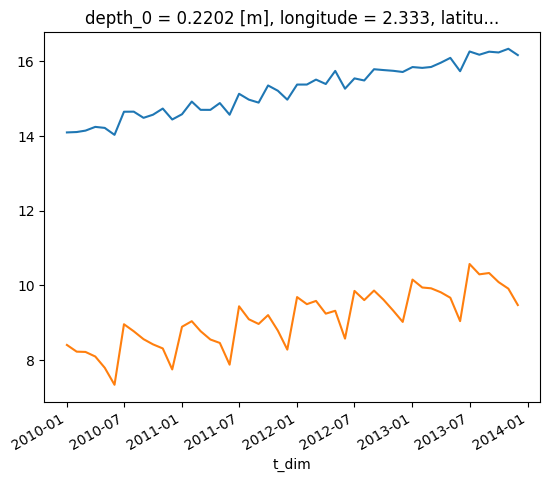
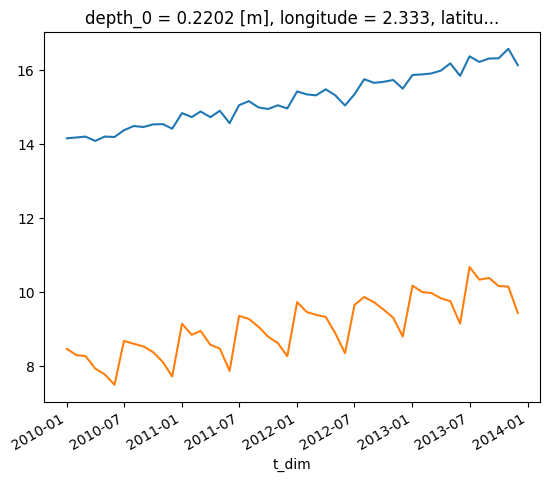
Updated General notebook pages from coast repo.

diff --git a/content/en/docs/Examples/Notebooks/General/seasonal_decomp_example.md b/content/en/docs/Examples/Notebooks/General/seasonal_decomp_example.md
@@ -86,7 +86,7 @@ temperature[0,0,:,:].plot()
 
 
 
-    <matplotlib.collections.QuadMesh at 0x7f87ec9b7af0>
+    <matplotlib.collections.QuadMesh at 0x7fa07605d8b0>
 
 
 
@@ -107,7 +107,7 @@ temperature[:,0,200,200].plot()
 
 
 
-    [<matplotlib.lines.Line2D at 0x7f87ec7fa6d0>]
+    [<matplotlib.lines.Line2D at 0x7fa074ea1460>]
 
 
 
@@ -513,7 +513,7 @@ Dimensions without coordinates: z_dim, y_dim, x_dim
 Data variables:
     trend      (t_dim, z_dim, y_dim, x_dim) float64 nan nan nan ... nan nan nan
     seasonal   (t_dim, z_dim, y_dim, x_dim) float64 nan nan nan ... nan nan nan
-    residual   (t_dim, z_dim, y_dim, x_dim) float64 nan nan nan ... nan nan nan</pre><div class='xr-wrap' style='display:none'><div class='xr-header'><div class='xr-obj-type'>xarray.Dataset</div></div><ul class='xr-sections'><li class='xr-section-item'><input id='section-d42141ce-48af-4893-b364-5f6567613936' class='xr-section-summary-in' type='checkbox' disabled ><label for='section-d42141ce-48af-4893-b364-5f6567613936' class='xr-section-summary'  title='Expand/collapse section'>Dimensions:</label><div class='xr-section-inline-details'><ul class='xr-dim-list'><li><span class='xr-has-index'>t_dim</span>: 48</li><li><span>z_dim</span>: 2</li><li><span>y_dim</span>: 375</li><li><span>x_dim</span>: 297</li></ul></div><div class='xr-section-details'></div></li><li class='xr-section-item'><input id='section-e6585d1b-7724-4d4b-a495-5657a4b716bb' class='xr-section-summary-in' type='checkbox'  checked><label for='section-e6585d1b-7724-4d4b-a495-5657a4b716bb' class='xr-section-summary' >Coordinates: <span>(4)</span></label><div class='xr-section-inline-details'></div><div class='xr-section-details'><ul class='xr-var-list'><li class='xr-var-item'><div class='xr-var-name'><span class='xr-has-index'>t_dim</span></div><div class='xr-var-dims'>(t_dim)</div><div class='xr-var-dtype'>datetime64[ns]</div><div class='xr-var-preview xr-preview'>2010-01-01 ... 2013-12-01</div><input id='attrs-b4dcd564-58a8-42f1-81d1-2969cd179d9c' class='xr-var-attrs-in' type='checkbox' disabled><label for='attrs-b4dcd564-58a8-42f1-81d1-2969cd179d9c' title='Show/Hide attributes'><svg class='icon xr-icon-file-text2'><use xlink:href='#icon-file-text2'></use></svg></label><input id='data-311a7585-7bc5-4884-a68f-ded313acbca0' class='xr-var-data-in' type='checkbox'><label for='data-311a7585-7bc5-4884-a68f-ded313acbca0' title='Show/Hide data repr'><svg class='icon xr-icon-database'><use xlink:href='#icon-database'></use></svg></label><div class='xr-var-attrs'><dl class='xr-attrs'></dl></div><div class='xr-var-data'><pre>array([&#x27;2010-01-01T00:00:00.000000000&#x27;, &#x27;2010-02-01T00:00:00.000000000&#x27;,
+    residual   (t_dim, z_dim, y_dim, x_dim) float64 nan nan nan ... nan nan nan</pre><div class='xr-wrap' style='display:none'><div class='xr-header'><div class='xr-obj-type'>xarray.Dataset</div></div><ul class='xr-sections'><li class='xr-section-item'><input id='section-a70e4a4f-01c0-4dd6-a6f8-419dc722c936' class='xr-section-summary-in' type='checkbox' disabled ><label for='section-a70e4a4f-01c0-4dd6-a6f8-419dc722c936' class='xr-section-summary'  title='Expand/collapse section'>Dimensions:</label><div class='xr-section-inline-details'><ul class='xr-dim-list'><li><span class='xr-has-index'>t_dim</span>: 48</li><li><span>z_dim</span>: 2</li><li><span>y_dim</span>: 375</li><li><span>x_dim</span>: 297</li></ul></div><div class='xr-section-details'></div></li><li class='xr-section-item'><input id='section-204ecef0-bb21-400d-88c0-f1d8fb5bde33' class='xr-section-summary-in' type='checkbox'  checked><label for='section-204ecef0-bb21-400d-88c0-f1d8fb5bde33' class='xr-section-summary' >Coordinates: <span>(4)</span></label><div class='xr-section-inline-details'></div><div class='xr-section-details'><ul class='xr-var-list'><li class='xr-var-item'><div class='xr-var-name'><span class='xr-has-index'>t_dim</span></div><div class='xr-var-dims'>(t_dim)</div><div class='xr-var-dtype'>datetime64[ns]</div><div class='xr-var-preview xr-preview'>2010-01-01 ... 2013-12-01</div><input id='attrs-fc3eb1d7-96aa-4e0f-8123-0a0c46e6be70' class='xr-var-attrs-in' type='checkbox' disabled><label for='attrs-fc3eb1d7-96aa-4e0f-8123-0a0c46e6be70' title='Show/Hide attributes'><svg class='icon xr-icon-file-text2'><use xlink:href='#icon-file-text2'></use></svg></label><input id='data-0b8a5887-f077-455e-b394-0f9db34bef87' class='xr-var-data-in' type='checkbox'><label for='data-0b8a5887-f077-455e-b394-0f9db34bef87' title='Show/Hide data repr'><svg class='icon xr-icon-database'><use xlink:href='#icon-database'></use></svg></label><div class='xr-var-attrs'><dl class='xr-attrs'></dl></div><div class='xr-var-data'><pre>array([&#x27;2010-01-01T00:00:00.000000000&#x27;, &#x27;2010-02-01T00:00:00.000000000&#x27;,
        &#x27;2010-03-01T00:00:00.000000000&#x27;, &#x27;2010-04-01T00:00:00.000000000&#x27;,
        &#x27;2010-05-01T00:00:00.000000000&#x27;, &#x27;2010-06-01T00:00:00.000000000&#x27;,
        &#x27;2010-07-01T00:00:00.000000000&#x27;, &#x27;2010-08-01T00:00:00.000000000&#x27;,
@@ -537,7 +537,7 @@ Data variables:
        &#x27;2013-07-01T00:00:00.000000000&#x27;, &#x27;2013-08-01T00:00:00.000000000&#x27;,
        &#x27;2013-09-01T00:00:00.000000000&#x27;, &#x27;2013-10-01T00:00:00.000000000&#x27;,
        &#x27;2013-11-01T00:00:00.000000000&#x27;, &#x27;2013-12-01T00:00:00.000000000&#x27;],
-      dtype=&#x27;datetime64[ns]&#x27;)</pre></div></li><li class='xr-var-item'><div class='xr-var-name'><span>depth_0</span></div><div class='xr-var-dims'>(z_dim, y_dim, x_dim)</div><div class='xr-var-dtype'>float32</div><div class='xr-var-preview xr-preview'>0.5 0.5 0.5 0.5 ... 1.5 1.5 1.5 1.5</div><input id='attrs-b49a0ec0-ab7a-4933-a63e-c009f26ebf74' class='xr-var-attrs-in' type='checkbox' ><label for='attrs-b49a0ec0-ab7a-4933-a63e-c009f26ebf74' title='Show/Hide attributes'><svg class='icon xr-icon-file-text2'><use xlink:href='#icon-file-text2'></use></svg></label><input id='data-532673e2-7186-4427-8175-4546692c87ad' class='xr-var-data-in' type='checkbox'><label for='data-532673e2-7186-4427-8175-4546692c87ad' title='Show/Hide data repr'><svg class='icon xr-icon-database'><use xlink:href='#icon-database'></use></svg></label><div class='xr-var-attrs'><dl class='xr-attrs'><dt><span>units :</span></dt><dd>m</dd><dt><span>standard_name :</span></dt><dd>Depth at time zero on the t-grid</dd></dl></div><div class='xr-var-data'><pre>array([[[0.5       , 0.5       , 0.5       , ..., 0.5       ,
+      dtype=&#x27;datetime64[ns]&#x27;)</pre></div></li><li class='xr-var-item'><div class='xr-var-name'><span>depth_0</span></div><div class='xr-var-dims'>(z_dim, y_dim, x_dim)</div><div class='xr-var-dtype'>float32</div><div class='xr-var-preview xr-preview'>0.5 0.5 0.5 0.5 ... 1.5 1.5 1.5 1.5</div><input id='attrs-839a5afe-e3f4-4ae5-85b8-b7559c0cab70' class='xr-var-attrs-in' type='checkbox' ><label for='attrs-839a5afe-e3f4-4ae5-85b8-b7559c0cab70' title='Show/Hide attributes'><svg class='icon xr-icon-file-text2'><use xlink:href='#icon-file-text2'></use></svg></label><input id='data-083b9e25-fdff-45b2-bef9-7839a260f467' class='xr-var-data-in' type='checkbox'><label for='data-083b9e25-fdff-45b2-bef9-7839a260f467' title='Show/Hide data repr'><svg class='icon xr-icon-database'><use xlink:href='#icon-database'></use></svg></label><div class='xr-var-attrs'><dl class='xr-attrs'><dt><span>units :</span></dt><dd>m</dd><dt><span>standard_name :</span></dt><dd>Depth at time zero on the t-grid</dd></dl></div><div class='xr-var-data'><pre>array([[[0.5       , 0.5       , 0.5       , ..., 0.5       ,
          0.5       , 0.5       ],
         [0.5       , 0.4975586 , 0.4975586 , ..., 0.10009766,
          0.10009766, 0.5       ],
@@ -563,7 +563,7 @@ Data variables:
         [1.5       , 0.30029297, 0.30029297, ..., 0.30029297,
          0.30029297, 1.5       ],
         [1.5       , 1.5       , 1.5       , ..., 1.5       ,
-         1.5       , 1.5       ]]], dtype=float32)</pre></div></li><li class='xr-var-item'><div class='xr-var-name'><span>longitude</span></div><div class='xr-var-dims'>(y_dim, x_dim)</div><div class='xr-var-dtype'>float32</div><div class='xr-var-preview xr-preview'>-19.89 -19.78 -19.67 ... 12.89 13.0</div><input id='attrs-29179765-9406-4f76-9778-fa1de02a451e' class='xr-var-attrs-in' type='checkbox' disabled><label for='attrs-29179765-9406-4f76-9778-fa1de02a451e' title='Show/Hide attributes'><svg class='icon xr-icon-file-text2'><use xlink:href='#icon-file-text2'></use></svg></label><input id='data-bccb97a6-37e6-4661-9cdb-a46785899e40' class='xr-var-data-in' type='checkbox'><label for='data-bccb97a6-37e6-4661-9cdb-a46785899e40' title='Show/Hide data repr'><svg class='icon xr-icon-database'><use xlink:href='#icon-database'></use></svg></label><div class='xr-var-attrs'><dl class='xr-attrs'></dl></div><div class='xr-var-data'><pre>array([[-19.888672, -19.777344, -19.666992, ...,  12.777344,  12.888672,
+         1.5       , 1.5       ]]], dtype=float32)</pre></div></li><li class='xr-var-item'><div class='xr-var-name'><span>longitude</span></div><div class='xr-var-dims'>(y_dim, x_dim)</div><div class='xr-var-dtype'>float32</div><div class='xr-var-preview xr-preview'>-19.89 -19.78 -19.67 ... 12.89 13.0</div><input id='attrs-e6753199-41dc-4d72-8055-4108ed272587' class='xr-var-attrs-in' type='checkbox' disabled><label for='attrs-e6753199-41dc-4d72-8055-4108ed272587' title='Show/Hide attributes'><svg class='icon xr-icon-file-text2'><use xlink:href='#icon-file-text2'></use></svg></label><input id='data-8450f9f5-871f-4365-bd71-72a522c6a466' class='xr-var-data-in' type='checkbox'><label for='data-8450f9f5-871f-4365-bd71-72a522c6a466' title='Show/Hide data repr'><svg class='icon xr-icon-database'><use xlink:href='#icon-database'></use></svg></label><div class='xr-var-attrs'><dl class='xr-attrs'></dl></div><div class='xr-var-data'><pre>array([[-19.888672, -19.777344, -19.666992, ...,  12.777344,  12.888672,
          13.      ],
        [-19.888672, -19.777344, -19.666992, ...,  12.777344,  12.888672,
          13.      ],
@@ -575,7 +575,7 @@ Data variables:
        [-19.888672, -19.777344, -19.666992, ...,  12.777344,  12.888672,
          13.      ],
        [-19.888672, -19.777344, -19.666992, ...,  12.777344,  12.888672,
-         13.      ]], dtype=float32)</pre></div></li><li class='xr-var-item'><div class='xr-var-name'><span>latitude</span></div><div class='xr-var-dims'>(y_dim, x_dim)</div><div class='xr-var-dtype'>float32</div><div class='xr-var-preview xr-preview'>40.07 40.07 40.07 ... 65.0 65.0</div><input id='attrs-34e0a926-b6b6-413b-809e-6a13ca8f984d' class='xr-var-attrs-in' type='checkbox' disabled><label for='attrs-34e0a926-b6b6-413b-809e-6a13ca8f984d' title='Show/Hide attributes'><svg class='icon xr-icon-file-text2'><use xlink:href='#icon-file-text2'></use></svg></label><input id='data-d67e56d9-1117-456e-a018-335ab70f7880' class='xr-var-data-in' type='checkbox'><label for='data-d67e56d9-1117-456e-a018-335ab70f7880' title='Show/Hide data repr'><svg class='icon xr-icon-database'><use xlink:href='#icon-database'></use></svg></label><div class='xr-var-attrs'><dl class='xr-attrs'></dl></div><div class='xr-var-data'><pre>array([[40.066406, 40.066406, 40.066406, ..., 40.066406, 40.066406,
+         13.      ]], dtype=float32)</pre></div></li><li class='xr-var-item'><div class='xr-var-name'><span>latitude</span></div><div class='xr-var-dims'>(y_dim, x_dim)</div><div class='xr-var-dtype'>float32</div><div class='xr-var-preview xr-preview'>40.07 40.07 40.07 ... 65.0 65.0</div><input id='attrs-18ff1bc8-58e7-4fe8-bf3b-063d073bf81f' class='xr-var-attrs-in' type='checkbox' disabled><label for='attrs-18ff1bc8-58e7-4fe8-bf3b-063d073bf81f' title='Show/Hide attributes'><svg class='icon xr-icon-file-text2'><use xlink:href='#icon-file-text2'></use></svg></label><input id='data-6125a465-814e-4929-b6e6-31e62c77645d' class='xr-var-data-in' type='checkbox'><label for='data-6125a465-814e-4929-b6e6-31e62c77645d' title='Show/Hide data repr'><svg class='icon xr-icon-database'><use xlink:href='#icon-database'></use></svg></label><div class='xr-var-attrs'><dl class='xr-attrs'></dl></div><div class='xr-var-data'><pre>array([[40.066406, 40.066406, 40.066406, ..., 40.066406, 40.066406,
         40.066406],
        [40.13379 , 40.13379 , 40.13379 , ..., 40.13379 , 40.13379 ,
         40.13379 ],
@@ -587,11 +587,11 @@ Data variables:
        [64.93457 , 64.93457 , 64.93457 , ..., 64.93457 , 64.93457 ,
         64.93457 ],
        [65.00098 , 65.00098 , 65.00098 , ..., 65.00098 , 65.00098 ,
-        65.00098 ]], dtype=float32)</pre></div></li></ul></div></li><li class='xr-section-item'><input id='section-464e8245-1a8b-4424-8d2a-ac0cfa53e012' class='xr-section-summary-in' type='checkbox'  checked><label for='section-464e8245-1a8b-4424-8d2a-ac0cfa53e012' class='xr-section-summary' >Data variables: <span>(3)</span></label><div class='xr-section-inline-details'></div><div class='xr-section-details'><ul class='xr-var-list'><li class='xr-var-item'><div class='xr-var-name'><span>trend</span></div><div class='xr-var-dims'>(t_dim, z_dim, y_dim, x_dim)</div><div class='xr-var-dtype'>float64</div><div class='xr-var-preview xr-preview'>nan nan nan nan ... nan nan nan nan</div><input id='attrs-c6f8db08-c1ec-454e-9e55-5a8c2129a865' class='xr-var-attrs-in' type='checkbox' disabled><label for='attrs-c6f8db08-c1ec-454e-9e55-5a8c2129a865' title='Show/Hide attributes'><svg class='icon xr-icon-file-text2'><use xlink:href='#icon-file-text2'></use></svg></label><input id='data-5eb594c5-5c9a-4f16-b055-70958bb9169e' class='xr-var-data-in' type='checkbox'><label for='data-5eb594c5-5c9a-4f16-b055-70958bb9169e' title='Show/Hide data repr'><svg class='icon xr-icon-database'><use xlink:href='#icon-database'></use></svg></label><div class='xr-var-attrs'><dl class='xr-attrs'></dl></div><div class='xr-var-data'><pre>array([[[[        nan,         nan,         nan, ...,         nan,
+        65.00098 ]], dtype=float32)</pre></div></li></ul></div></li><li class='xr-section-item'><input id='section-226820ff-9586-42e3-85a1-7f8f7a257a4b' class='xr-section-summary-in' type='checkbox'  checked><label for='section-226820ff-9586-42e3-85a1-7f8f7a257a4b' class='xr-section-summary' >Data variables: <span>(3)</span></label><div class='xr-section-inline-details'></div><div class='xr-section-details'><ul class='xr-var-list'><li class='xr-var-item'><div class='xr-var-name'><span>trend</span></div><div class='xr-var-dims'>(t_dim, z_dim, y_dim, x_dim)</div><div class='xr-var-dtype'>float64</div><div class='xr-var-preview xr-preview'>nan nan nan nan ... nan nan nan nan</div><input id='attrs-57bca8ef-20c3-477f-870d-d5888aa49de9' class='xr-var-attrs-in' type='checkbox' disabled><label for='attrs-57bca8ef-20c3-477f-870d-d5888aa49de9' title='Show/Hide attributes'><svg class='icon xr-icon-file-text2'><use xlink:href='#icon-file-text2'></use></svg></label><input id='data-4059c943-182c-449f-bc89-f9df9249d839' class='xr-var-data-in' type='checkbox'><label for='data-4059c943-182c-449f-bc89-f9df9249d839' title='Show/Hide data repr'><svg class='icon xr-icon-database'><use xlink:href='#icon-database'></use></svg></label><div class='xr-var-attrs'><dl class='xr-attrs'></dl></div><div class='xr-var-data'><pre>array([[[[        nan,         nan,         nan, ...,         nan,
                   nan,         nan],
-         [        nan, 15.26052062, 15.25726541, ...,         nan,
+         [        nan, 15.29981311, 15.2965579 , ...,         nan,
                   nan,         nan],
-         [        nan, 15.24945291, 15.4172589 , ...,         nan,
+         [        nan, 15.2887454 , 15.45655139, ...,         nan,
                   nan,         nan],
          ...,
          [        nan,         nan,         nan, ...,         nan,
@@ -603,9 +603,9 @@ Data variables:
 
         [[        nan,         nan,         nan, ...,         nan,
                   nan,         nan],
-         [        nan, 15.25954405, 15.25645161, ...,         nan,
+         [        nan, 15.29883655, 15.2957441 , ...,         nan,
                   nan,         nan],
-         [        nan, 15.24831359, 15.42116515, ...,         nan,
+         [        nan, 15.28760608, 15.46045764, ...,         nan,
                   nan,         nan],
 ...
          [        nan,         nan,         nan, ...,         nan,
@@ -617,9 +617,9 @@ Data variables:
 
         [[        nan,         nan,         nan, ...,         nan,
                   nan,         nan],
-         [        nan, 17.65310919, 17.65001674, ...,         nan,
+         [        nan, 17.785083  , 17.78199055, ...,         nan,
                   nan,         nan],
-         [        nan, 17.64187872, 17.81473028, ...,         nan,
+         [        nan, 17.77385253, 17.94670409, ...,         nan,
                   nan,         nan],
          ...,
          [        nan,         nan,         nan, ...,         nan,
@@ -627,11 +627,11 @@ Data variables:
          [        nan,         nan,         nan, ...,         nan,
                   nan,         nan],
          [        nan,         nan,         nan, ...,         nan,
-                  nan,         nan]]]])</pre></div></li><li class='xr-var-item'><div class='xr-var-name'><span>seasonal</span></div><div class='xr-var-dims'>(t_dim, z_dim, y_dim, x_dim)</div><div class='xr-var-dtype'>float64</div><div class='xr-var-preview xr-preview'>nan nan nan nan ... nan nan nan nan</div><input id='attrs-73561aa1-b332-4009-b5d2-3774c6647dda' class='xr-var-attrs-in' type='checkbox' disabled><label for='attrs-73561aa1-b332-4009-b5d2-3774c6647dda' title='Show/Hide attributes'><svg class='icon xr-icon-file-text2'><use xlink:href='#icon-file-text2'></use></svg></label><input id='data-e00157c6-d26b-4a42-bb48-baae50133bb4' class='xr-var-data-in' type='checkbox'><label for='data-e00157c6-d26b-4a42-bb48-baae50133bb4' title='Show/Hide data repr'><svg class='icon xr-icon-database'><use xlink:href='#icon-database'></use></svg></label><div class='xr-var-attrs'><dl class='xr-attrs'></dl></div><div class='xr-var-data'><pre>array([[[[        nan,         nan,         nan, ...,         nan,
+                  nan,         nan]]]])</pre></div></li><li class='xr-var-item'><div class='xr-var-name'><span>seasonal</span></div><div class='xr-var-dims'>(t_dim, z_dim, y_dim, x_dim)</div><div class='xr-var-dtype'>float64</div><div class='xr-var-preview xr-preview'>nan nan nan nan ... nan nan nan nan</div><input id='attrs-347f62a0-2742-4526-a218-6a9a13ccc0ae' class='xr-var-attrs-in' type='checkbox' disabled><label for='attrs-347f62a0-2742-4526-a218-6a9a13ccc0ae' title='Show/Hide attributes'><svg class='icon xr-icon-file-text2'><use xlink:href='#icon-file-text2'></use></svg></label><input id='data-11c97b5d-2f2d-4fce-9097-f9a4665316f2' class='xr-var-data-in' type='checkbox'><label for='data-11c97b5d-2f2d-4fce-9097-f9a4665316f2' title='Show/Hide data repr'><svg class='icon xr-icon-database'><use xlink:href='#icon-database'></use></svg></label><div class='xr-var-attrs'><dl class='xr-attrs'></dl></div><div class='xr-var-data'><pre>array([[[[        nan,         nan,         nan, ...,         nan,
                   nan,         nan],
-         [        nan,  0.0604959 , -0.02316296, ...,         nan,
+         [        nan,  0.07650735, -0.0071515 , ...,         nan,
                   nan,         nan],
-         [        nan,  0.08621204,  0.31586699, ...,         nan,
+         [        nan,  0.1022235 ,  0.33187845, ...,         nan,
                   nan,         nan],
          ...,
          [        nan,         nan,         nan, ...,         nan,
@@ -643,9 +643,9 @@ Data variables:
 
         [[        nan,         nan,         nan, ...,         nan,
                   nan,         nan],
-         [        nan,  0.04975371, -0.0340679 , ...,         nan,
+         [        nan,  0.06576517, -0.01805645, ...,         nan,
                   nan,         nan],
-         [        nan,  0.07563262,  0.31196074, ...,         nan,
+         [        nan,  0.09164407,  0.3279722 , ...,         nan,
                   nan,         nan],
 ...
          [        nan,         nan,         nan, ...,         nan,
@@ -657,9 +657,9 @@ Data variables:
 
         [[        nan,         nan,         nan, ...,         nan,
                   nan,         nan],
-         [        nan, -0.31473006, -0.29796574, ...,         nan,
+         [        nan, -0.33062682, -0.3138625 , ...,         nan,
                   nan,         nan],
-         [        nan, -0.32498397, -0.67361678, ...,         nan,
+         [        nan, -0.34088073, -0.68951354, ...,         nan,
                   nan,         nan],
          ...,
          [        nan,         nan,         nan, ...,         nan,
@@ -667,11 +667,11 @@ Data variables:
          [        nan,         nan,         nan, ...,         nan,
                   nan,         nan],
          [        nan,         nan,         nan, ...,         nan,
-                  nan,         nan]]]])</pre></div></li><li class='xr-var-item'><div class='xr-var-name'><span>residual</span></div><div class='xr-var-dims'>(t_dim, z_dim, y_dim, x_dim)</div><div class='xr-var-dtype'>float64</div><div class='xr-var-preview xr-preview'>nan nan nan nan ... nan nan nan nan</div><input id='attrs-b2a1ec0b-4570-4159-a3dc-849e8e504968' class='xr-var-attrs-in' type='checkbox' disabled><label for='attrs-b2a1ec0b-4570-4159-a3dc-849e8e504968' title='Show/Hide attributes'><svg class='icon xr-icon-file-text2'><use xlink:href='#icon-file-text2'></use></svg></label><input id='data-a6f6cbed-61aa-409b-82ad-252d6c2b626f' class='xr-var-data-in' type='checkbox'><label for='data-a6f6cbed-61aa-409b-82ad-252d6c2b626f' title='Show/Hide data repr'><svg class='icon xr-icon-database'><use xlink:href='#icon-database'></use></svg></label><div class='xr-var-attrs'><dl class='xr-attrs'></dl></div><div class='xr-var-data'><pre>array([[[[        nan,         nan,         nan, ...,         nan,
+                  nan,         nan]]]])</pre></div></li><li class='xr-var-item'><div class='xr-var-name'><span>residual</span></div><div class='xr-var-dims'>(t_dim, z_dim, y_dim, x_dim)</div><div class='xr-var-dtype'>float64</div><div class='xr-var-preview xr-preview'>nan nan nan nan ... nan nan nan nan</div><input id='attrs-ae5774d9-7f78-45a5-9575-89605cc2c763' class='xr-var-attrs-in' type='checkbox' disabled><label for='attrs-ae5774d9-7f78-45a5-9575-89605cc2c763' title='Show/Hide attributes'><svg class='icon xr-icon-file-text2'><use xlink:href='#icon-file-text2'></use></svg></label><input id='data-8c727c42-08f5-4691-bcc8-fdd04f1afa2f' class='xr-var-data-in' type='checkbox'><label for='data-8c727c42-08f5-4691-bcc8-fdd04f1afa2f' title='Show/Hide data repr'><svg class='icon xr-icon-database'><use xlink:href='#icon-database'></use></svg></label><div class='xr-var-attrs'><dl class='xr-attrs'></dl></div><div class='xr-var-data'><pre>array([[[[        nan,         nan,         nan, ...,         nan,
                   nan,         nan],
-         [        nan,  0.02138179,  0.02138179, ...,         nan,
+         [        nan,  0.03007515,  0.03007515, ...,         nan,
                   nan,         nan],
-         [        nan,  0.02138179,  0.02138179, ...,         nan,
+         [        nan,  0.03007515,  0.03007515, ...,         nan,
                   nan,         nan],
          ...,
          [        nan,         nan,         nan, ...,         nan,
@@ -683,9 +683,9 @@ Data variables:
 
         [[        nan,         nan,         nan, ...,         nan,
                   nan,         nan],
-         [        nan,  0.02138179,  0.02138179, ...,         nan,
+         [        nan,  0.03007515,  0.03007515, ...,         nan,
                   nan,         nan],
-         [        nan,  0.02138179,  0.02138179, ...,         nan,
+         [        nan,  0.03007515,  0.03007515, ...,         nan,
                   nan,         nan],
 ...
          [        nan,         nan,         nan, ...,         nan,
@@ -697,9 +697,9 @@ Data variables:
 
         [[        nan,         nan,         nan, ...,         nan,
                   nan,         nan],
-         [        nan,  0.0307246 ,  0.0307246 , ...,         nan,
+         [        nan, -0.11602455, -0.11602455, ...,         nan,
                   nan,         nan],
-         [        nan,  0.0307246 ,  0.0307246 , ...,         nan,
+         [        nan, -0.11602455, -0.11602455, ...,         nan,
                   nan,         nan],
          ...,
          [        nan,         nan,         nan, ...,         nan,
@@ -707,7 +707,7 @@ Data variables:
          [        nan,         nan,         nan, ...,         nan,
                   nan,         nan],
          [        nan,         nan,         nan, ...,         nan,
-                  nan,         nan]]]])</pre></div></li></ul></div></li><li class='xr-section-item'><input id='section-25f9f699-c23c-4dc7-9777-6cd7aa844e65' class='xr-section-summary-in' type='checkbox' disabled ><label for='section-25f9f699-c23c-4dc7-9777-6cd7aa844e65' class='xr-section-summary'  title='Expand/collapse section'>Attributes: <span>(0)</span></label><div class='xr-section-inline-details'></div><div class='xr-section-details'><dl class='xr-attrs'></dl></div></li></ul></div></div>
+                  nan,         nan]]]])</pre></div></li></ul></div></li><li class='xr-section-item'><input id='section-42d77efb-6017-4639-84a7-16e9b3c208ca' class='xr-section-summary-in' type='checkbox' disabled ><label for='section-42d77efb-6017-4639-84a7-16e9b3c208ca' class='xr-section-summary'  title='Expand/collapse section'>Attributes: <span>(0)</span></label><div class='xr-section-inline-details'></div><div class='xr-section-details'><dl class='xr-attrs'></dl></div></li></ul></div></div>
 
 
 
@@ -726,9 +726,9 @@ temp_decomp[:,:,0,200,200].plot(hue="component")
 
 
 
-    [<matplotlib.lines.Line2D at 0x7f87ec74f640>,
-     <matplotlib.lines.Line2D at 0x7f87ec6b1be0>,
-     <matplotlib.lines.Line2D at 0x7f87ec6b1b50>]
+    [<matplotlib.lines.Line2D at 0x7fa074debf10>,
+     <matplotlib.lines.Line2D at 0x7fa074d599a0>,
+     <matplotlib.lines.Line2D at 0x7fa074d59910>]
 
 
 

diff --git a/content/en/docs/Examples/Notebooks/General/eof_tutorial.md b/content/en/docs/Examples/Notebooks/General/eof_tutorial.md
@@ -70,7 +70,7 @@ eof_data.EOF.sel(mode=[1,2,3,4]).plot.pcolormesh(col='mode',col_wrap=2,x='longit
 
 
 
-    <xarray.plot.facetgrid.FacetGrid at 0x7ff99993d6d0>
+    <xarray.plot.facetgrid.FacetGrid at 0x7f1ff005b4c0>
 
 
 
@@ -88,7 +88,7 @@ eof_data.temporal_proj.sel(mode=[1,2,3,4]).plot(col='mode',col_wrap=2,x='time')
 
 
 
-    <xarray.plot.facetgrid.FacetGrid at 0x7ff9983d8400>
+    <xarray.plot.facetgrid.FacetGrid at 0x7f1fed8914c0>
 
 
 
